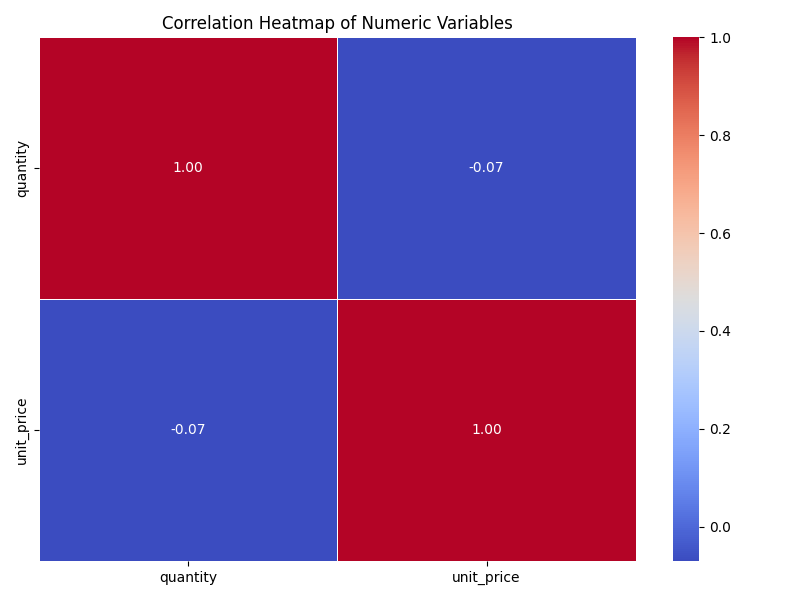
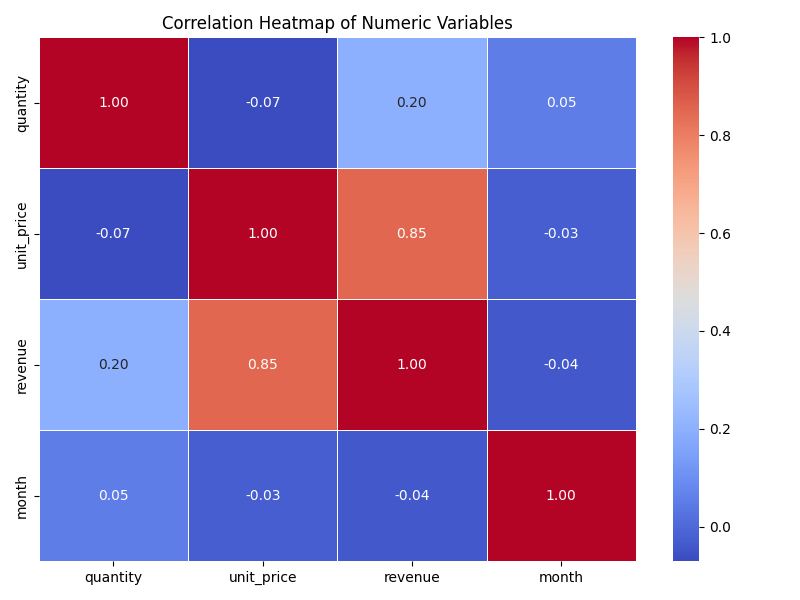
Completed Descriptive Analytics Drill

diff --git a/drill_eda.py b/drill_eda.py
@@ -106,36 +106,43 @@ def main():
     """Load data, compute summary, and generate all plots."""
     os.makedirs("output", exist_ok=True)
 
-    # Load the CSV from data/sample_sales.csv
+    # 1. Load the CSV
     try:
         df = pd.read_csv("data/sample_sales.csv")
     except FileNotFoundError:
-        print("Error: data/sample_sales.csv not found. Make sure you are in the right directory.")
+        print("Error: data/sample_sales.csv not found.")
         return
 
-    # Call compute_summary and save the result
+    # --- FEATURE ENGINEERING (لحل مشكلة نقص الأعمدة الرقمية) ---
+    # حساب الإيرادات إذا لم تكن موجودة
+    if 'revenue' not in df.columns and 'quantity' in df.columns and 'unit_price' in df.columns:
+        df['revenue'] = df['quantity'] * df['unit_price']
+        
+    # استخراج رقم الشهر من التاريخ كعمود رقمي رابع
+    if 'date' in df.columns:
+        df['month'] = pd.to_datetime(df['date']).dt.month
+    # --------------------------------------------------------
+
+    # 2. Call compute_summary
     print("Computing summary statistics...")
     compute_summary(df)
 
-    # Choose 4 numeric-friendly columns and call plot_distributions
-    # We dynamically select the first 4 numeric columns to ensure it works
+    # 3. Choose 4 numeric columns for distributions
     numeric_columns = df.select_dtypes(include=[np.number]).columns.tolist()
     
     if len(numeric_columns) >= 4:
         cols_to_plot = numeric_columns[:4]
     else:
-        # Fallback if there are less than 4 numeric columns
         cols_to_plot = numeric_columns 
         
     print(f"Plotting distributions for: {cols_to_plot}...")
     plot_distributions(df, cols_to_plot, "output/distributions.png")
 
-    # Call plot_correlation
+    # 4. Call plot_correlation
     print("Plotting correlation heatmap...")
     plot_correlation(df, "output/correlation.png")
     
     print("All tasks completed successfully! Check the 'output' folder.")
-
 
 if __name__ == "__main__":
     main()
